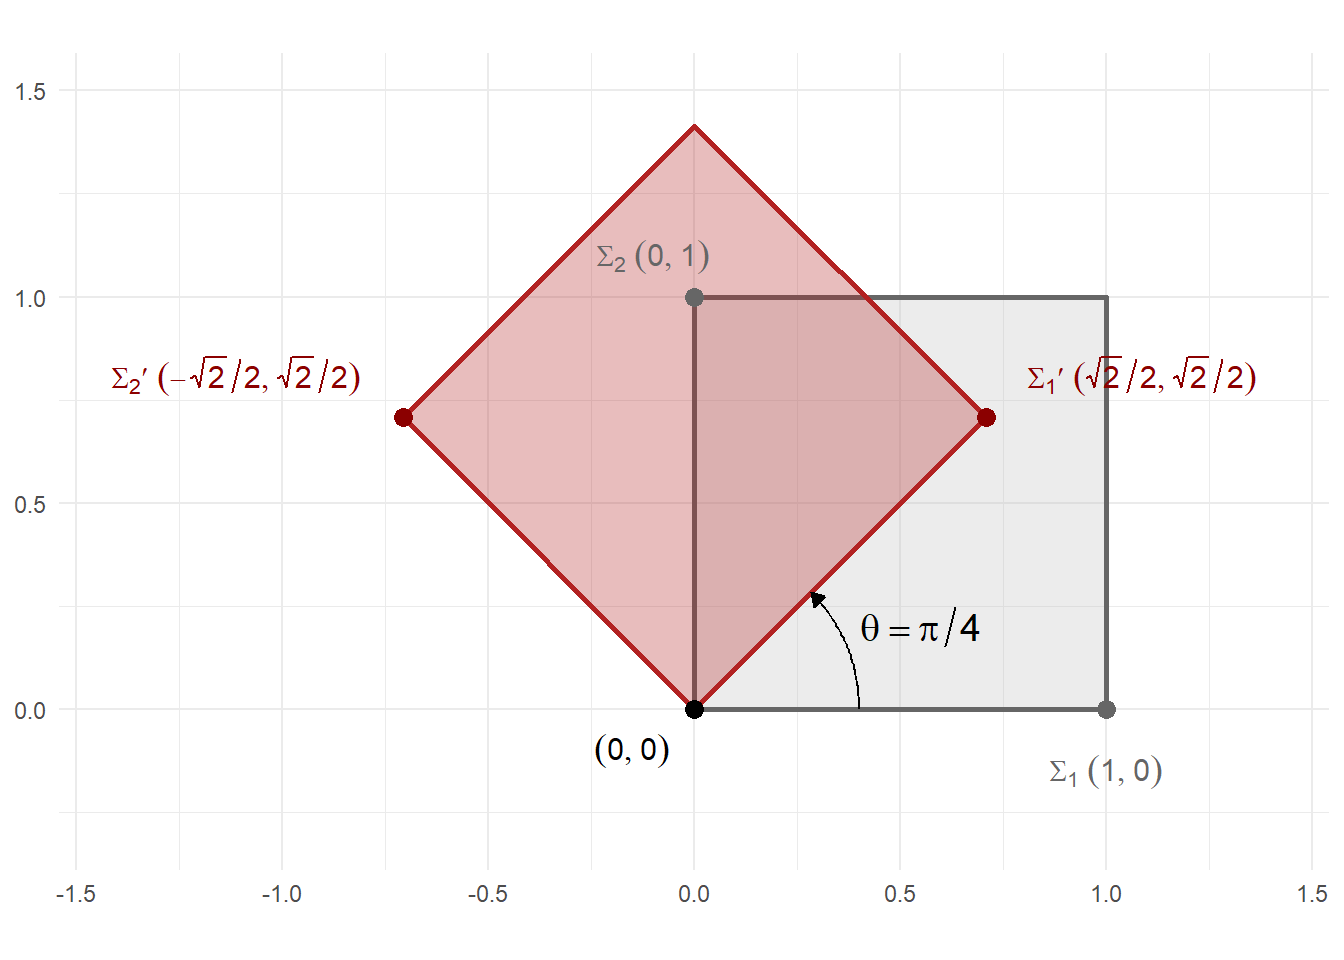
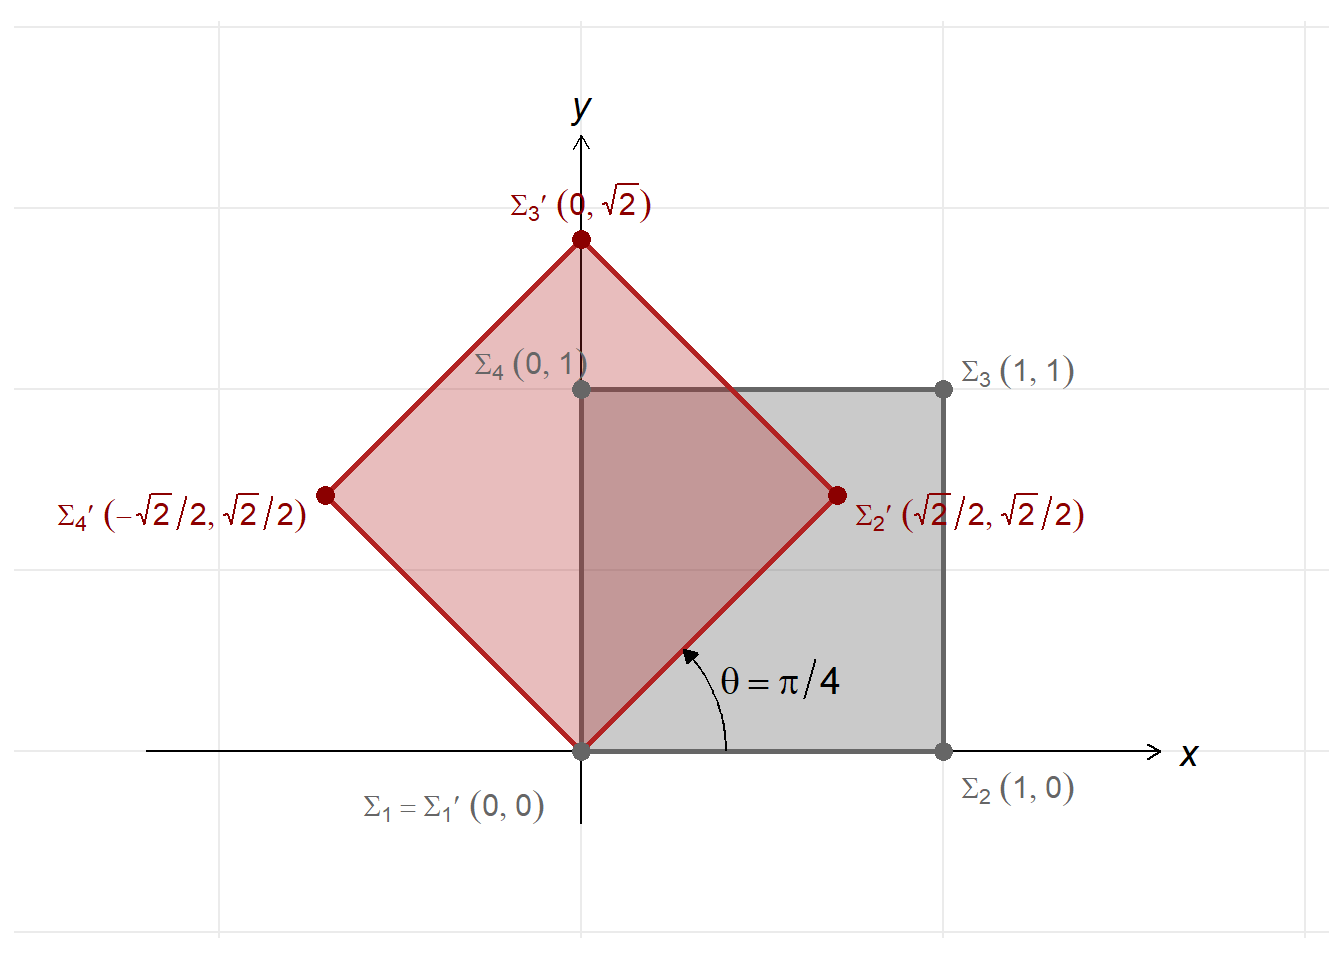
0.1.3

diff --git a/_book/matrices.html b/_book/matrices.html
@@ -185,7 +185,8 @@ window.Quarto = {
   <li>
 <a href="#special-types-of-matrices" id="toc-special-types-of-matrices" class="nav-link" data-scroll-target="#special-types-of-matrices"><span class="header-section-number">1.2</span> Special Types of Matrices</a>
   <ul class="collapse">
-<li><a href="#the-square-matrix" id="toc-the-square-matrix" class="nav-link" data-scroll-target="#the-square-matrix"><span class="header-section-number">1.2.1</span> The Square Matrix</a></li>
+<li><a href="#the-null-matrix" id="toc-the-null-matrix" class="nav-link" data-scroll-target="#the-null-matrix"><span class="header-section-number">1.2.1</span> The Null Matrix</a></li>
+  <li><a href="#the-square-matrix" id="toc-the-square-matrix" class="nav-link" data-scroll-target="#the-square-matrix"><span class="header-section-number">1.2.2</span> The Square Matrix</a></li>
   </ul>
 </li>
   </ul></nav>
@@ -229,7 +230,7 @@ a_{m1} &amp; a_{m2} &amp; \cdots &amp; a_{mn}
 <p>The <span class="math inline">\(n\)</span> columns of <span class="math inline">\(A\)</span> are <span class="math inline">\(m \times 1\)</span> matrices, are called <strong>column vectors</strong>:</p>
 <p><span class="math inline">\(c_1 = \begin{bmatrix} a_{11} \\ a_{21} \\ \vdots \\ a_{m1} \end{bmatrix}\)</span>, <span class="math inline">\(c_2 = \begin{bmatrix} a_{12} \\ a_{22} \\ \vdots \\ a_{m2} \end{bmatrix}\)</span>, …, <span class="math inline">\(c_n = \begin{bmatrix} a_{1n} \\ a_{2n} \\ \vdots \\ a_{mn} \end{bmatrix}\)</span></p>
 <p>&nbsp;</p>
-<section id="example-1" class="level4"><h4 class="anchored" data-anchor-id="example-1">Example 1</h4>
+<section id="example-a-3-times-4-matrix" class="level4"><h4 class="anchored" data-anchor-id="example-a-3-times-4-matrix">Example: A <span class="math inline">\(3 \times 4\)</span> Matrix</h4>
 <p>The matrix</p>
 <p><span class="math display">\[A= \begin{bmatrix}
     4 &amp; 0 &amp; 2 &amp; 1\\
@@ -308,7 +309,7 @@ r_1 = \begin{bmatrix} 4 &amp; 0 &amp; 2 &amp; 1 \end{bmatrix}, \qquad c_1 = \beg
 </div>
 </div>
 <p>&nbsp;</p>
-</section></section><section id="example-2-the-pauli-matrices" class="level4"><h4 class="anchored" data-anchor-id="example-2-the-pauli-matrices">Example 2: The Pauli Matrices</h4>
+</section></section><section id="example-the-pauli-matrices" class="level4"><h4 class="anchored" data-anchor-id="example-the-pauli-matrices">Example: The Pauli Matrices</h4>
 <p>The Pauli matrices are three <span class="math inline">\(2 \times 2\)</span> complex matrices with fundamental applications in physics, particularly in quantum mechanics.</p>
 <p>Let <span class="math inline">\(\mathbb{K} = \mathbb{C}\)</span> (the field of complex numbers). The Pauli matrices are defined as:</p>
 <p><span class="math display">\[\sigma_1 = \begin{bmatrix} 0 &amp; 1 \\ 1 &amp; 0 \end{bmatrix}, \quad
@@ -371,7 +372,7 @@ r_1 = \begin{bmatrix} 4 &amp; 0 &amp; 2 &amp; 1 \end{bmatrix}, \qquad c_1 = \beg
 </div>
 </div>
 <p>&nbsp;</p>
-</section></section><section id="example-3-the-planar-rotation-matrix" class="level4"><h4 class="anchored" data-anchor-id="example-3-the-planar-rotation-matrix">Example 3: The Planar Rotation Matrix</h4>
+</section></section><section id="example-the-planar-rotation-matrix" class="level4"><h4 class="anchored" data-anchor-id="example-the-planar-rotation-matrix">Example: The Planar Rotation Matrix</h4>
 <p>When matrix entries are functions, the matrix is called a matrix-valued function. A fundamental example in linear algebra and geometry is the planar rotation matrix <span class="math inline">\(M(\theta)\)</span>, which represents a counter-clockwise rotation by an angle <span class="math inline">\(\theta\)</span> in <span class="math inline">\(\mathbb{R}^2\)</span>. Mathematically, it is defined as:</p>
 <p><span class="math display">\[M(\theta) = \begin{bmatrix} \cos(\theta) &amp; -\sin(\theta) \\ \sin(\theta) &amp; \cos(\theta) \end{bmatrix}\]</span> For <span class="math inline">\(\theta = \frac{\pi}{4}\)</span> (a rotation of <span class="math inline">\(45^\circ\)</span>):</p>
 <p><span class="math display">\[M\left(\frac{\pi}{4}\right) =
@@ -406,6 +407,8 @@ r_1 = \begin{bmatrix} 4 &amp; 0 &amp; 2 &amp; 1 \end{bmatrix}, \qquad c_1 = \beg
 [2,] 0.7071068  0.7071068</code></pre>
 </div>
 </div>
+<p>&nbsp;</p>
+<p>The geometric effect of the planar rotation matrix <span class="math inline">\(M(\frac{\pi}{4})\)</span> on a unit square is shown below.</p>
 <div class="cell" data-layout-align="center">
 <div class="cell-output-display">
 <div id="fig-rotation" class="quarto-float quarto-figure quarto-figure-center anchored" data-fig-align="center">
@@ -418,15 +421,72 @@ Figure&nbsp;1.1: Planar rotation of a unit square by <span class="math inline">\
 </div>
 </div>
 </div>
-<p>The <a href="#fig-rotation" class="quarto-xref">Figure&nbsp;<span>1.1</span></a> illustrates how the planar rotation matrix <span class="math inline">\(M(\theta)\)</span> rotates the unit square counter-clockwise around the origin <span class="math inline">\((0,0)\)</span>. At <span class="math inline">\(\theta = \pi/4\)</span>, the square maps to a diamond configuration, with the point <span class="math inline">\(\Sigma_1\)</span> <span class="math inline">\((1,0)\)</span> moving to <span class="math inline">\(\Sigma'_1\)</span> <span class="math inline">\((\sqrt{2}/2, \sqrt{2}/2)\)</span> and the point <span class="math inline">\(\Sigma_2\)</span> <span class="math inline">\((0,1)\)</span> moving to <span class="math inline">\(\Sigma'_2\)</span> <span class="math inline">\((-\sqrt{2}/2, \sqrt{2}/2)\)</span>.</p>
+<p>In <a href="#fig-rotation" class="quarto-xref">Figure&nbsp;<span>1.1</span></a> the planar rotation matrix <span class="math inline">\(M(\theta)\)</span> rotates the unit square counter-clockwise around the origin <span class="math inline">\((0,0)\)</span>. At <span class="math inline">\(\theta = \pi/4\)</span>, the square maps to a diamond configuration, where the vertices are transformed as follows: <span class="math inline">\(\Sigma_1(0,0)\)</span> remains fixed at <span class="math inline">\(\Sigma'_1(0,0)\)</span>; <span class="math inline">\(\Sigma_2(1,0)\)</span> maps to <span class="math inline">\(\Sigma'_2(\sqrt{2}/2, \sqrt{2}/2)\)</span>; <span class="math inline">\(\Sigma_3(1,1)\)</span> rotates to the apex <span class="math inline">\(\Sigma'_3(0, \sqrt{2})\)</span>; and <span class="math inline">\(\Sigma_4(0,1)\)</span> maps to <span class="math inline">\(\Sigma'_4(-\sqrt{2}/2, \sqrt{2}/2)\)</span>.</p>
 </section></section></section><section id="special-types-of-matrices" class="level2" data-number="1.2"><h2 data-number="1.2" class="anchored" data-anchor-id="special-types-of-matrices">
 <span class="header-section-number">1.2</span> Special Types of Matrices</h2>
-<section id="the-square-matrix" class="level3" data-number="1.2.1"><h3 data-number="1.2.1" class="anchored" data-anchor-id="the-square-matrix">
-<span class="header-section-number">1.2.1</span> The Square Matrix</h3>
+<section id="the-null-matrix" class="level3" data-number="1.2.1"><h3 data-number="1.2.1" class="anchored" data-anchor-id="the-null-matrix">
+<span class="header-section-number">1.2.1</span> The Null Matrix</h3>
+<p>An <span class="math inline">\(m \times n\)</span> matrix is called a null matrix (or zero matrix) if all its entries are zero, and is typically denoted by <span class="math inline">\(O_{m \times n}\)</span> or simply <span class="math inline">\(O\)</span>:</p>
+<p><span class="math display">\[A = \begin{bmatrix}
+0 &amp; 0 &amp; \cdots &amp; 0 \\
+0 &amp; 0 &amp; \cdots &amp; 0 \\
+\vdots &amp; \vdots &amp; \ddots &amp; \vdots \\
+0 &amp; 0 &amp; \cdots &amp; 0
+\end{bmatrix} = [a_{ij}] \equiv O\]</span></p>
+<section id="example-a-3-times-4-null-matrix" class="level4"><h4 class="anchored" data-anchor-id="example-a-3-times-4-null-matrix">Example: A <span class="math inline">\(3 \times 4\)</span> Null Matrix</h4>
+<p><span class="math display">\[O_{3 \times 4} = \begin{bmatrix}
+0 &amp; 0 &amp; 0 &amp; 0 \\
+0 &amp; 0 &amp; 0 &amp; 0 \\
+0 &amp; 0 &amp; 0 &amp; 0
+\end{bmatrix}\]</span></p>
+<section id="implementation-in-r-3" class="level5"><h5 class="anchored" data-anchor-id="implementation-in-r-3"><em>Implementation in R</em></h5>
+<p>A null matrix is easily generated by specifying its dimensions and filling all entries with zero.</p>
+<div class="cell">
+<div class="code-copy-outer-scaffold"><div class="sourceCode" id="cb28"><pre class="downlit sourceCode r code-with-copy"><code class="sourceCode R"><span><span class="va">O</span> <span class="op">&lt;-</span> <span class="fu"><a href="https://rdrr.io/r/base/matrix.html">matrix</a></span><span class="op">(</span><span class="fl">0</span>, nrow <span class="op">=</span> <span class="fl">3</span>, ncol <span class="op">=</span> <span class="fl">4</span><span class="op">)</span></span>
+<span><span class="va">O</span></span></code></pre></div><button title="Copy to Clipboard" class="code-copy-button"><i class="bi"></i></button></div>
+<div class="cell-output cell-output-stdout">
+<pre><code>     [,1] [,2] [,3] [,4]
+[1,]    0    0    0    0
+[2,]    0    0    0    0
+[3,]    0    0    0    0</code></pre>
+</div>
+</div>
+<p>&nbsp;</p>
+</section></section></section><section id="the-square-matrix" class="level3" data-number="1.2.2"><h3 data-number="1.2.2" class="anchored" data-anchor-id="the-square-matrix">
+<span class="header-section-number">1.2.2</span> The Square Matrix</h3>
 <p>If a matrix <span class="math inline">\(A\)</span> has <span class="math inline">\(m\)</span> rows and <span class="math inline">\(n\)</span> columns, it is called a square matrix if <span class="math inline">\(m = n\)</span>, that is, if it has an equal number of rows and columns. In this case, <span class="math inline">\(A\)</span> is said to be of order <span class="math inline">\(n\)</span>, denoted <span class="math inline">\(A_{n \times n}\)</span> or simply <span class="math inline">\(A_n\)</span>.</p>
+<p><span class="math display">\[A_{n \times n} = \begin{bmatrix}
+a_{11} &amp; a_{12} &amp; \cdots &amp; a_{1n} \\
+a_{21} &amp; a_{22} &amp; \cdots &amp; a_{2n} \\
+\vdots &amp; \vdots &amp; \ddots &amp; \vdots \\
+a_{n1} &amp; a_{n2} &amp; \cdots &amp; a_{nn}
+\end{bmatrix}\]</span></p>
+<p>The most significant structural feature of a square matrix is the main diagonal (or principal diagonal). This diagonal consists of the set of entries <span class="math inline">\(a_{ij}\)</span> where the row index <span class="math inline">\(i\)</span> is equal to the column index <span class="math inline">\(j\)</span>:<span class="math display">\[\text{diag}(A) = \{a_{11}, a_{22}, \dots, a_{nn}\}\]</span>Entries not located on this line are referred to as off-diagonal elements.</p>
+<section id="example-a-3-times-3-square-matrix" class="level4"><h4 class="anchored" data-anchor-id="example-a-3-times-3-square-matrix">Example: A <span class="math inline">\(3 \times 3\)</span> Square Matrix</h4>
+<p><span class="math display">\[A_{3 \times 3} =
+  \begin{bmatrix}
+    5 &amp; 1 &amp; 0\\
+    3 &amp; -1 &amp; 2\\
+    4 &amp; 0 &amp; -1
+    \end{bmatrix}\]</span></p>
+<section id="implementation-in-r-4" class="level5"><h5 class="anchored" data-anchor-id="implementation-in-r-4"><em>Implementation in R</em></h5>
+<div class="cell">
+<div class="code-copy-outer-scaffold"><div class="sourceCode" id="cb30"><pre class="downlit sourceCode r code-with-copy"><code class="sourceCode R"><span><span class="va">A</span> <span class="op">&lt;-</span> <span class="fu"><a href="https://rdrr.io/r/base/matrix.html">matrix</a></span><span class="op">(</span><span class="fu"><a href="https://rdrr.io/r/base/c.html">c</a></span><span class="op">(</span><span class="fl">5</span>, <span class="fl">1</span>, <span class="fl">0</span>,</span>
+<span>              <span class="fl">3</span>, <span class="op">-</span><span class="fl">1</span>, <span class="fl">2</span>,</span>
+<span>              <span class="fl">4</span>, <span class="fl">0</span>, <span class="op">-</span><span class="fl">1</span><span class="op">)</span>,</span>
+<span>            nrow <span class="op">=</span> <span class="fl">3</span>, ncol <span class="op">=</span> <span class="fl">3</span>, byrow <span class="op">=</span> <span class="cn">TRUE</span><span class="op">)</span></span>
+<span></span>
+<span><span class="va">A</span></span></code></pre></div><button title="Copy to Clipboard" class="code-copy-button"><i class="bi"></i></button></div>
+<div class="cell-output cell-output-stdout">
+<pre><code>     [,1] [,2] [,3]
+[1,]    5    1    0
+[2,]    3   -1    2
+[3,]    4    0   -1</code></pre>
+</div>
+</div>
 
 
-</section></section></main><!-- /main --><script id="quarto-html-after-body" type="application/javascript">
+</section></section></section></section></main><!-- /main --><script id="quarto-html-after-body" type="application/javascript">
   window.document.addEventListener("DOMContentLoaded", function (event) {
     const icon = "";
     const anchorJS = new window.AnchorJS();
